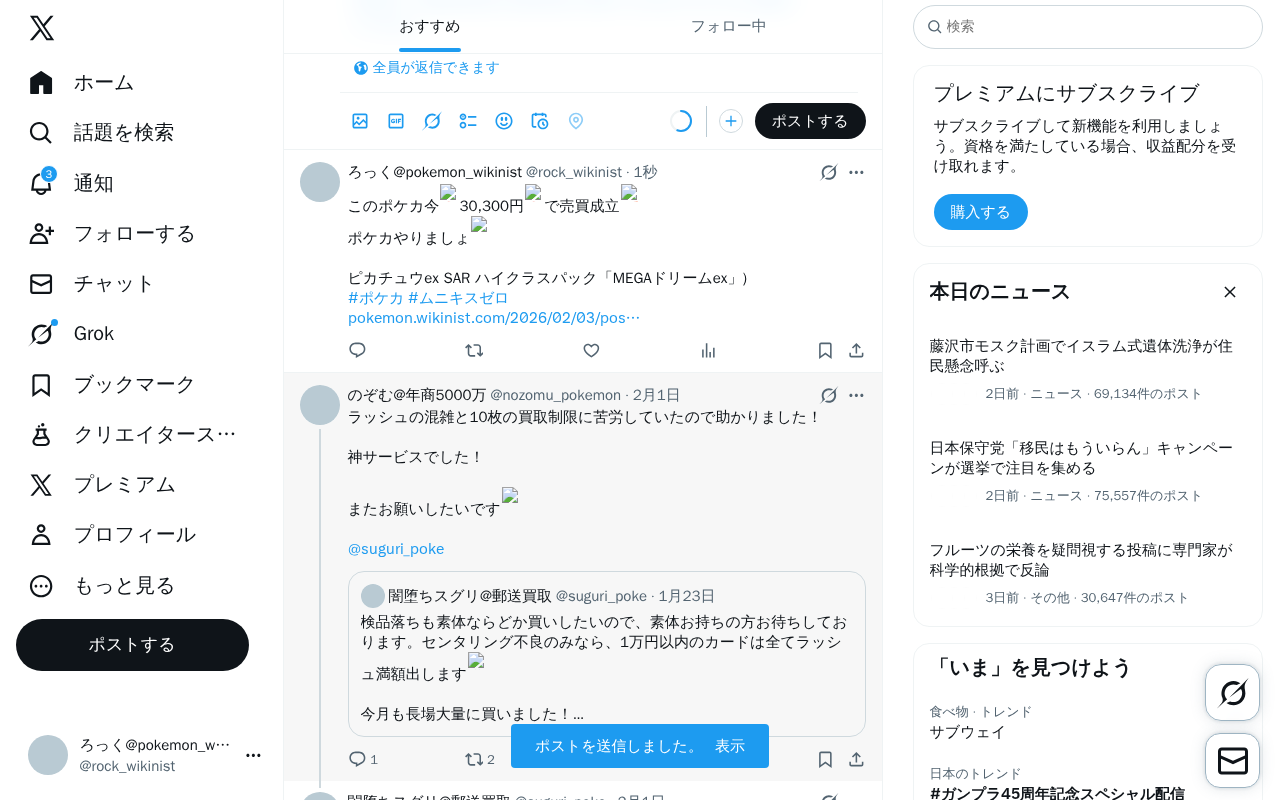
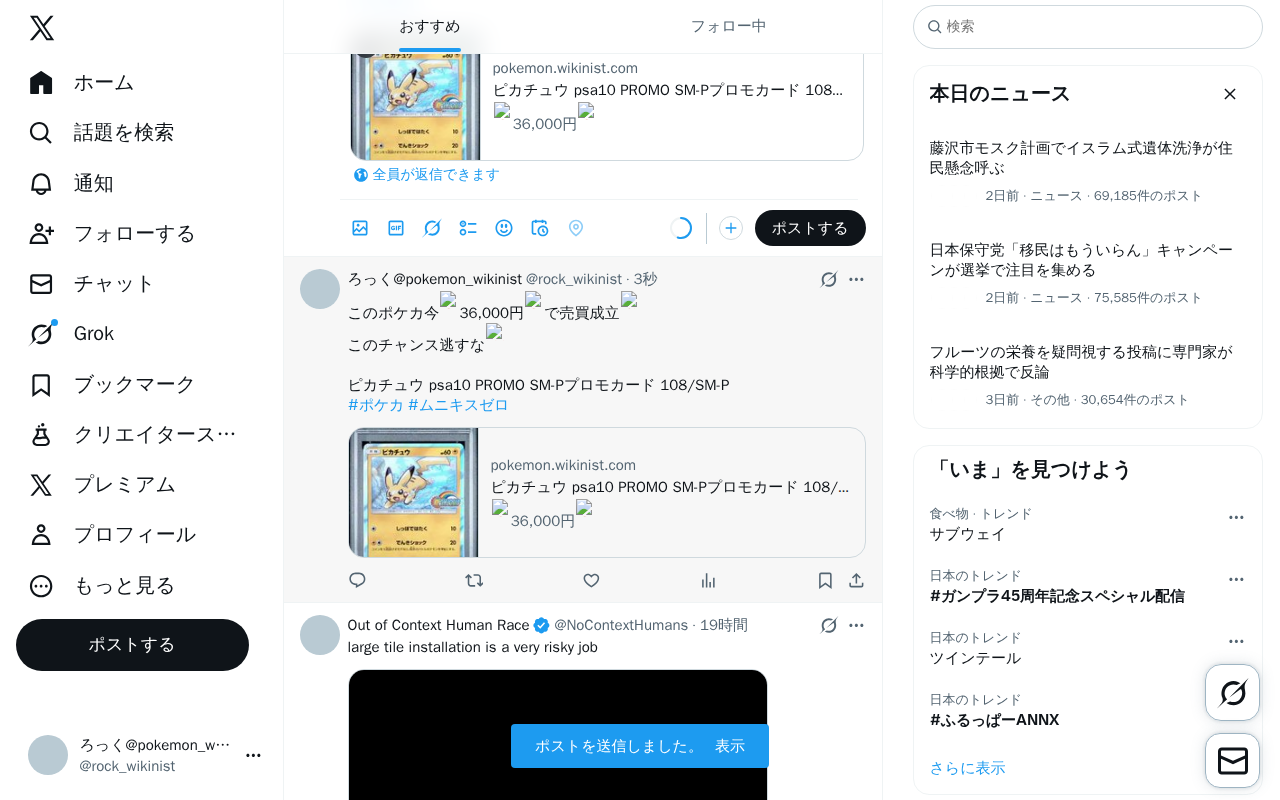
update system data

diff --git a/content/posts/test-pokemon-20260203-013114.md b/content/posts/test-pokemon-20260203-013114.md
@@ -1,0 +1,37 @@
+---
+title: "ピカチュウ psa10 PROMO SM-Pプロモカード 108/SM-P"
+date: 2026-02-03T01:31:14+09:00
+description: "🔥36,000円🔥 メルカリで「ピカチュウ psa10 PROMO SM-Pプロモカード 108/SM-P」が販売中！"
+amazon_url: "https://jp.mercari.com/item/m83530784998?afid=1391290753"
+categories: ["ポケモン"]
+tags: ["プロモ", "ピカチュウ", "3万円以上"]
+cover:
+  image: "https://static.mercdn.net/thumb/item/webp/m83530784998_1.jpg?1770049395"
+  hiddenInList: true
+  hiddenInSingle: true
+---
+
+<div class="image-and-buttons">
+    <div class="image-area" style="margin-bottom: 20px; text-align: center;">
+        <a href="https://jp.mercari.com/item/m83530784998?afid=1391290753" target="_blank" rel="nofollow sponsored noopener noreferrer">
+            <img src="https://static.mercdn.net/thumb/item/webp/m83530784998_1.jpg?1770049395" alt="36,000" style="max-width: 100%; border-radius: 8px; border: 1px solid #ddd;" />
+        </a>
+        <br><span style="font-size:1.5em;color:red;font-weight:bold;">🔥36,000円🔥</span>
+    </div>
+    <div class="link-buttons">
+        <a href="https://jp.mercari.com/item/m83530784998?afid=1391290753" target="_blank" rel="nofollow sponsored noopener noreferrer">
+            💎 商品状態を見る
+        </a>
+        <a href="https://jp.mercari.com/search?afid=1391290753&category_id=1289&keyword=%E3%83%94%E3%82%AB%E3%83%81%E3%83%A5%E3%82%A6%20psa10%20PROMO%20SM-P%E3%83%97%E3%83%AD%E3%83%A2%E3%82%AB%E3%83%BC%E3%83%89%20108%2FSM-P" target="_blank" rel="nofollow sponsored noopener noreferrer">
+            🔍 類似商品を見る
+        </a>
+        <a href="https://jp.mercari.com/search?afid=1391290753&brand_id=&category_id=1289&color_id=&item_condition_id=&item_types=&keyword=%E3%83%94%E3%82%AB%E3%83%81%E3%83%A5%E3%82%A6%20psa10%20PROMO%20SM-P%E3%83%97%E3%83%AD%E3%83%A2%E3%82%AB%E3%83%BC%E3%83%89%20108%2FSM-P&order=desc&shipping_method=&shipping_payer_id=&size_id=&sort=created_time&status=sold_out%2Ctrading" target="_blank" rel="nofollow sponsored noopener noreferrer">
+            📈 価格推移・履歴を見る
+        </a>
+    </div>
+</div>
+
+<p style="font-size:1.0em;color:#555;line-height:1.6;">
+「ピカチュウ psa10 PROMO SM-Pプロモカード 108/SM-P」はメルカリに出品されました！<br>
+最新のポケモン情報は当サイトで随時更新中です。
+</p>
